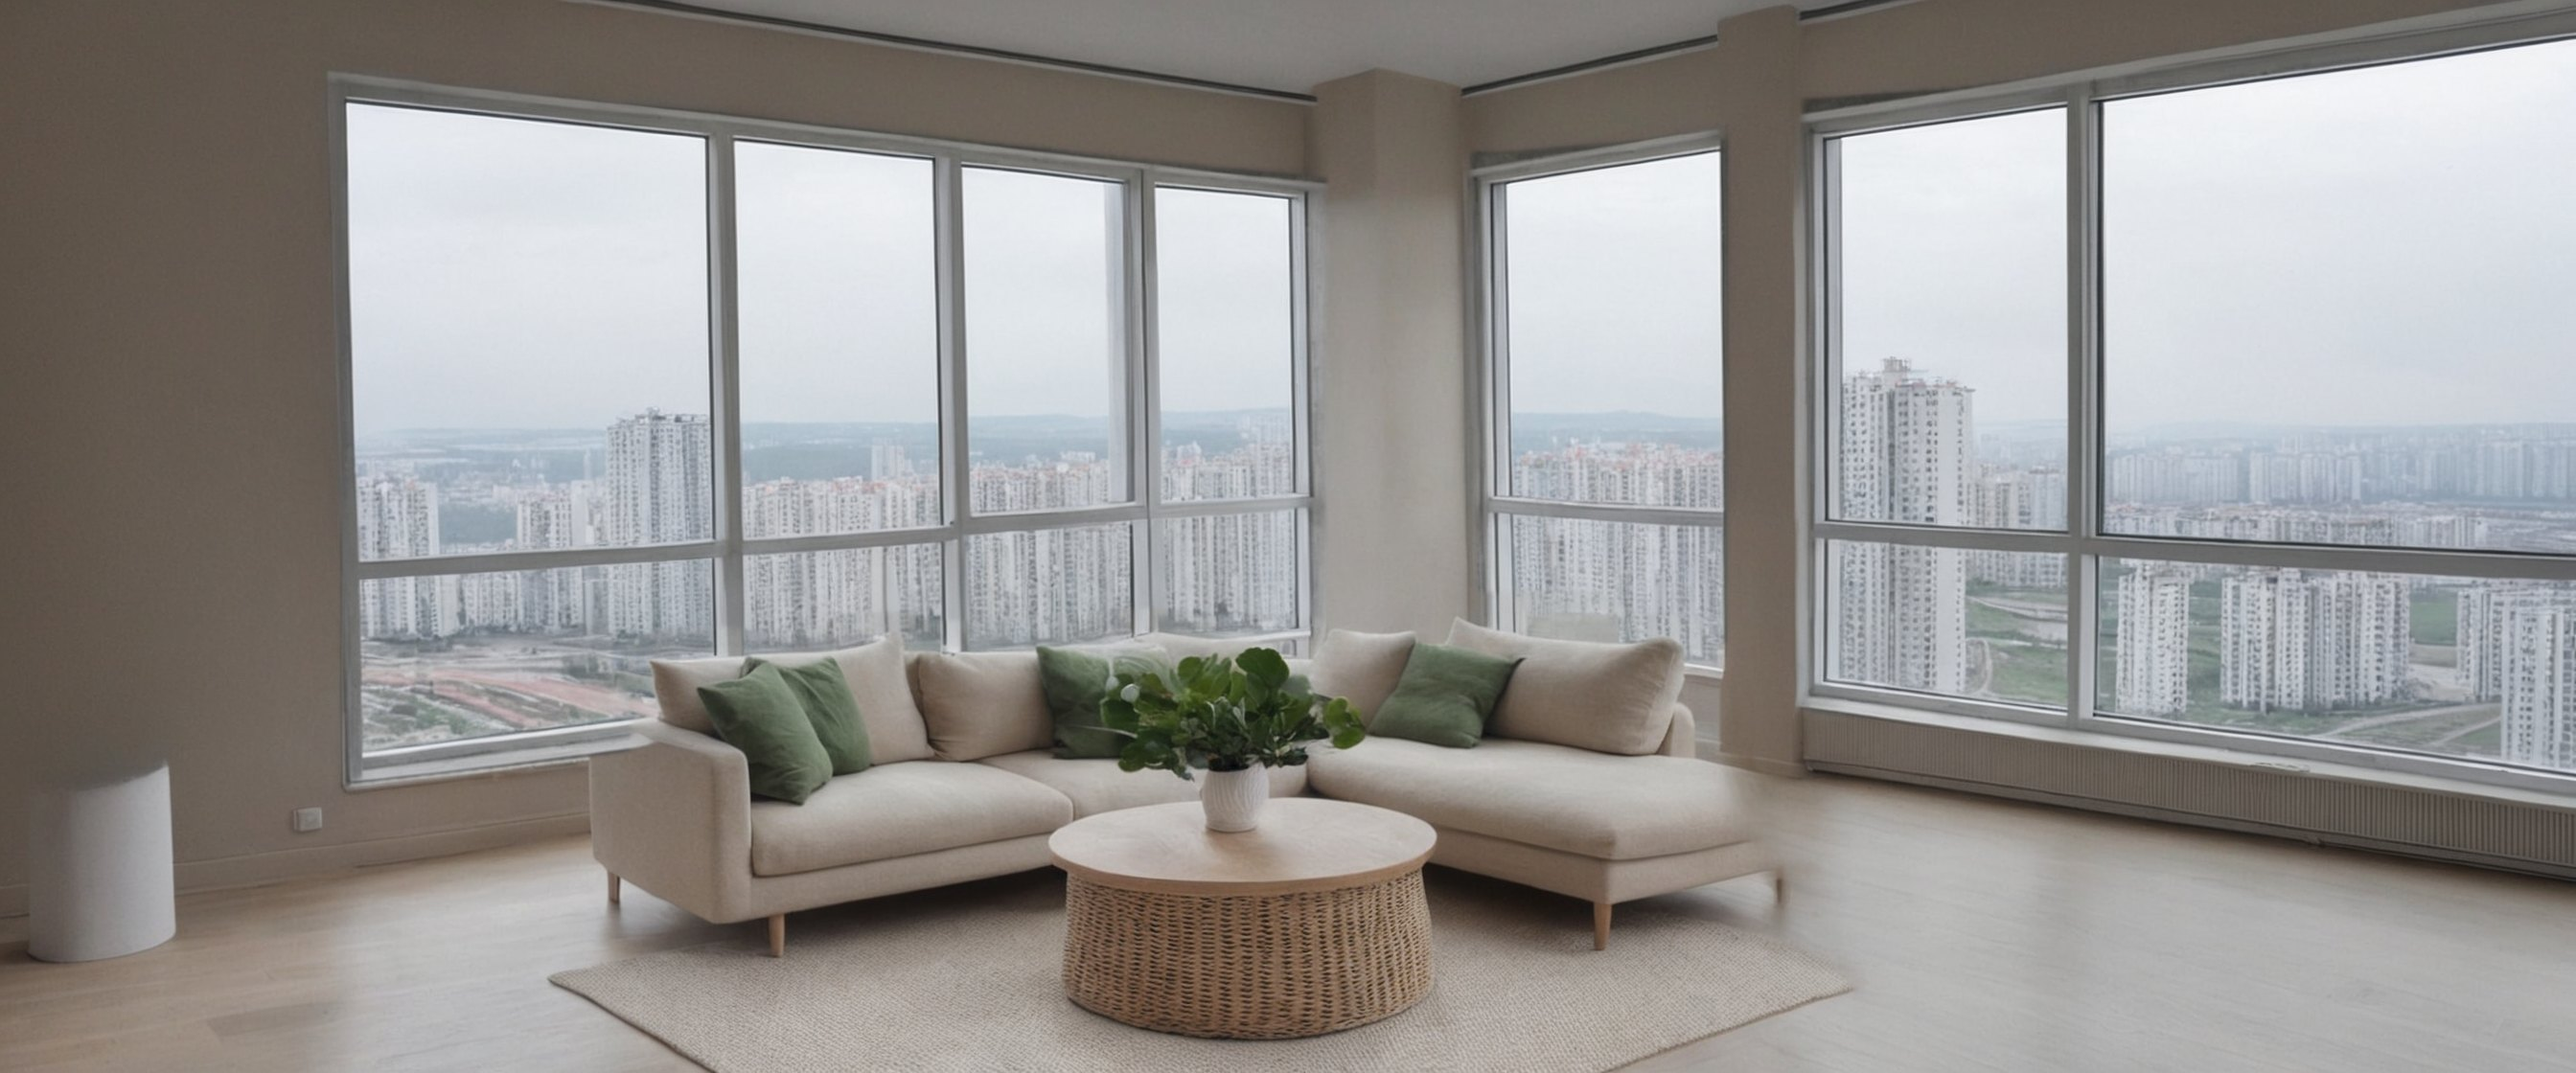
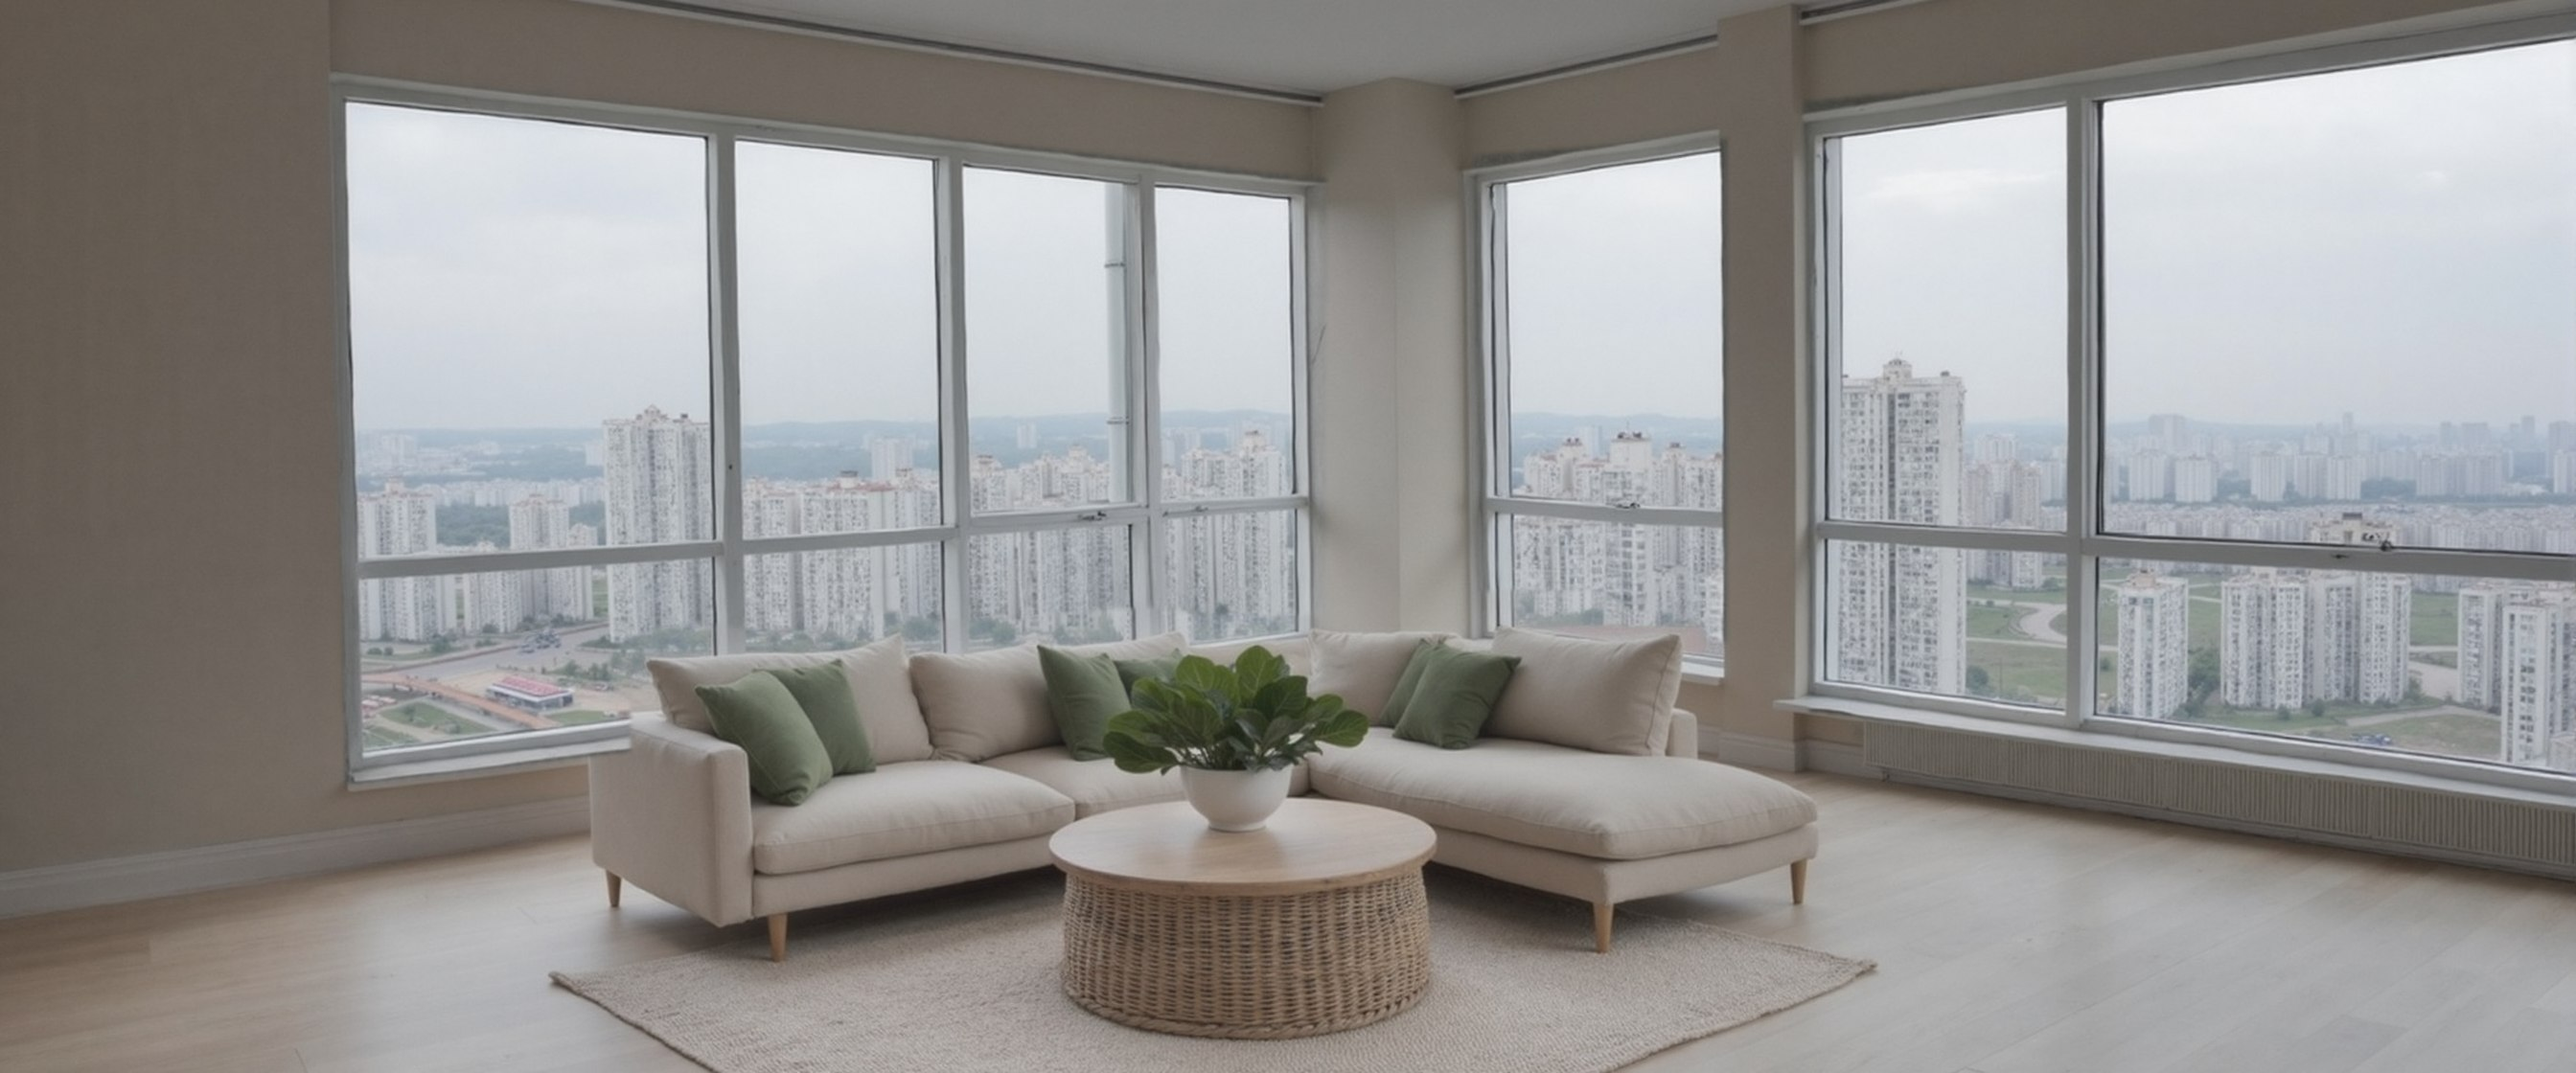
Пара «до/после» ремонта на FLUX: чётче ткани, растения и свет, убран лишний предмет у стены; окна и вид по-прежнему совпадают

diff --git a/tools/flux_masked_i2i.py b/tools/flux_masked_i2i.py
@@ -1,0 +1,45 @@
+"""FLUX.1-dev (GGUF Q4) через ComfyUI: перерисовка кадра поверх исходника. Маска необязательна (белое — перерисовать).
+Нужен узел ComfyUI-GGUF и модели: unet/flux1-dev-Q4_K_S.gguf, text_encoders/t5xxl_fp8_e4m3fn + clip_l, vae/ae.safetensors.
+Usage: py -3 tools/flux_masked_i2i.py <src.png в ComfyUI/input> <mask.png|-> <prefix> "<prompt>" <denoise> [seed] [steps] [W H]"""
+import json, random, sys, time, urllib.request
+
+URL = 'http://127.0.0.1:8188'
+a = sys.argv
+src, mask, prefix, pos, den = a[1], a[2], a[3], a[4], float(a[5])
+seed = int(a[6]) if len(a) > 6 and a[6] else random.randint(1, 2 ** 31)
+steps = int(a[7]) if len(a) > 7 else 24
+wf = {
+    '1': {'class_type': 'LoadImage', 'inputs': {'image': src}},
+    '20': {'class_type': 'UnetLoaderGGUF', 'inputs': {'unet_name': 'flux1-dev-Q4_K_S.gguf'}},
+    '21': {'class_type': 'DualCLIPLoader', 'inputs': {'clip_name1': 't5xxl_fp8_e4m3fn.safetensors', 'clip_name2': 'clip_l.safetensors', 'type': 'flux'}},
+    '22': {'class_type': 'VAELoader', 'inputs': {'vae_name': 'ae.safetensors'}},
+    '6': {'class_type': 'CLIPTextEncode', 'inputs': {'text': pos, 'clip': ['21', 0]}},
+    '7': {'class_type': 'CLIPTextEncode', 'inputs': {'text': '', 'clip': ['21', 0]}},
+    '23': {'class_type': 'FluxGuidance', 'inputs': {'conditioning': ['6', 0], 'guidance': 3.0}},
+    '5': {'class_type': 'VAEEncode', 'inputs': {'pixels': ['1', 0], 'vae': ['22', 0]}},
+    '3': {'class_type': 'KSampler', 'inputs': {'seed': seed, 'steps': steps, 'cfg': 1.0, 'sampler_name': 'euler', 'scheduler': 'beta', 'denoise': den,
+                                               'model': ['20', 0], 'positive': ['23', 0], 'negative': ['7', 0], 'latent_image': ['5', 0]}},
+    '8': {'class_type': 'VAEDecode', 'inputs': {'samples': ['3', 0], 'vae': ['22', 0]}},
+    '9': {'class_type': 'SaveImage', 'inputs': {'filename_prefix': prefix, 'images': ['8', 0]}},
+}
+if len(a) > 9:   # масштаб перед кодированием
+    wf['2'] = {'class_type': 'ImageScale', 'inputs': {'image': ['1', 0], 'upscale_method': 'lanczos', 'width': int(a[8]), 'height': int(a[9]), 'crop': 'disabled'}}
+    wf['5']['inputs']['pixels'] = ['2', 0]
+if mask != '-':
+    wf['2m'] = {'class_type': 'LoadImageMask', 'inputs': {'image': mask, 'channel': 'red'}}
+    wf['10'] = {'class_type': 'SetLatentNoiseMask', 'inputs': {'samples': ['5', 0], 'mask': ['2m', 0]}}
+    wf['3']['inputs']['latent_image'] = ['10', 0]
+t = time.time()
+req = urllib.request.Request(URL + '/prompt', data=json.dumps({'prompt': wf}).encode(), headers={'Content-Type': 'application/json'})
+try:
+    pid = json.load(urllib.request.urlopen(req))['prompt_id']
+except urllib.error.HTTPError as e:
+    print('ERROR', e.read().decode()[:1500]); sys.exit(1)
+while True:
+    h = json.load(urllib.request.urlopen(f'{URL}/history/{pid}'))
+    if pid in h:
+        st = h[pid].get('status', {})
+        outs = [i['filename'] for n in h[pid]['outputs'].values() for i in n.get('images', [])]
+        msg = [m for m in st.get('messages', []) if m[0] == 'execution_error']
+        print(st.get('status_str', '?'), outs, f'seed={seed}', f'{time.time() - t:.0f}s', (msg[0][1].get('exception_message', '')[:300] if msg else '')); break
+    time.sleep(3)
